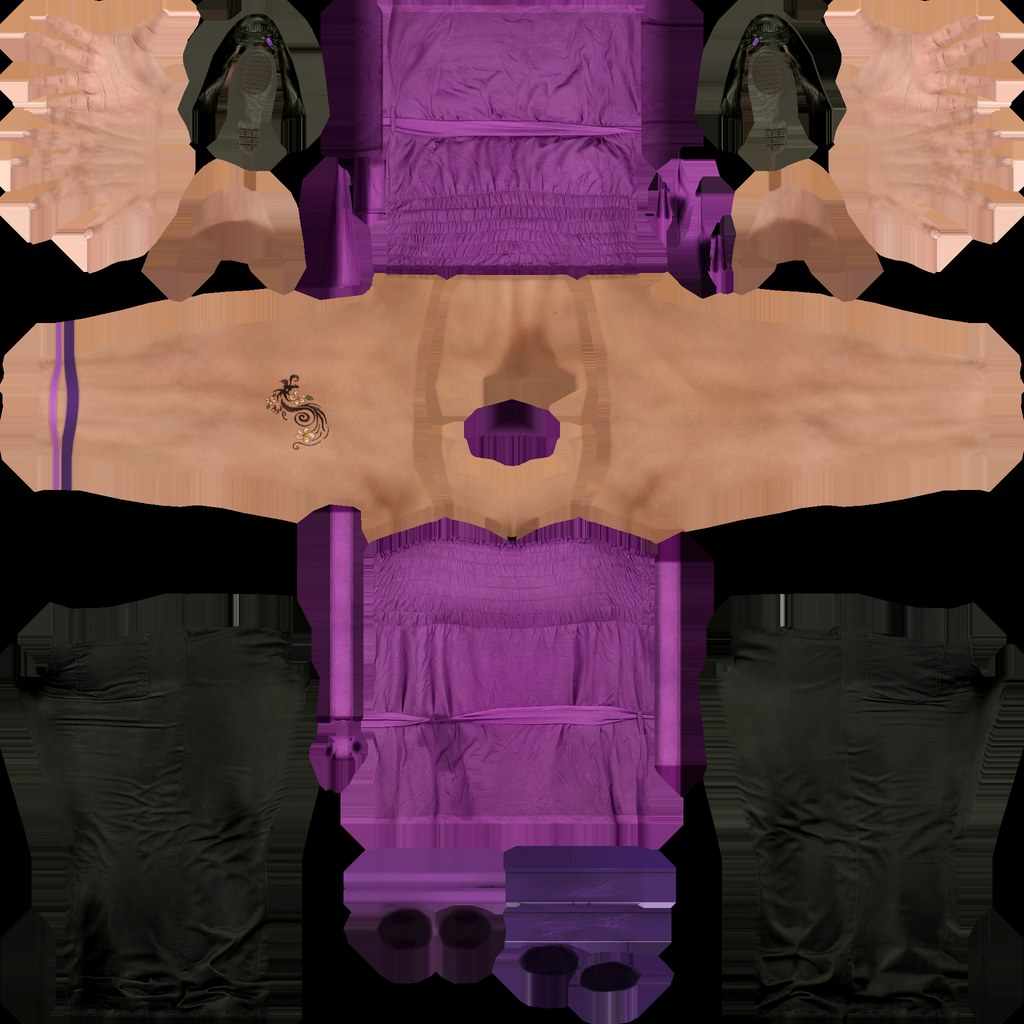
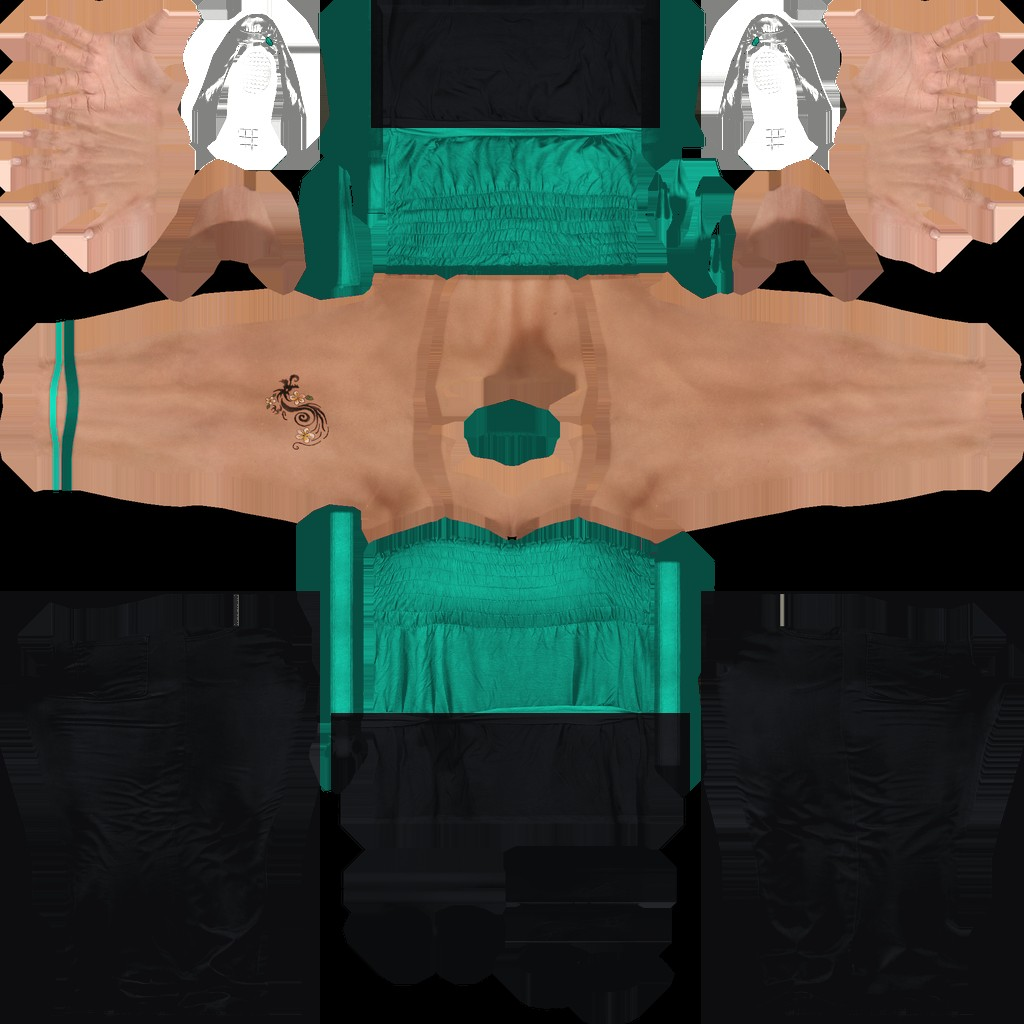
Corpus Coach : posture de pratiquante confirmée et tenue de sport
- squat, squat goblet, sumo, bulgare, soulevé de terre, roumain, good morning,
  swing et exercices buste penché : dos neutre et gainé, poitrine sortie,
  épaules en arrière, tête dans l'alignement
- coach : débardeur turquoise, bas noir, baskets blanches

Claude-Session: https://claude.ai/code/session_0183vZTDJYmU6FLCV4drYRkj

diff --git a/corpus/data.js b/corpus/data.js
@@ -7,7 +7,7 @@
   const CAM_FLOOR = { az: 90, el: 16, d: 3.9 };
   const CAM_FLOOR_FRONT = { az: 0, el: 16, d: 3.9 };
   const Q = { rp: 90, sh: [90, 6, 0], el: 0, hip: [90, 6, 0], kn: 90, an: 70, nk: -6 }; // quadrupédie
-  const HINGE = { rp: 48, sp: 4, hip: [56, 8, 6], kn: 20, nk: -18 };
+  const HINGE = { rp: 50, sp: -3, cp: -6, hip: [60, 8, 6], kn: 22, nk: -14 };
   const SUPINE_KNEES = { rp: -90, hip: [58, 10, 0], kn: 105 };
   const BEHIND_HEAD = { sh: [40, 125, 0], tw: 70, el: 150 };
 
@@ -16,8 +16,8 @@
     {
       id: 'squat', name: 'Squat', zones: ['quadriceps', 'fessiers', 'ischios'], place: ['maison', 'salle'], equip: [], level: 1,
       cycle: 3.2, count: [0.92], def: { sets: 3, reps: 15 }, aud: ['femme', 'homme', 'running'],
-      base: { hip: [0, 10, 18] },
-      keys: [{ t: 0 }, { t: 0.42, rp: 22, sp: 14, nk: -18, hip: [104, 12, 22], kn: 112, sh: [126, 6, 1], el: 2 }, { t: 0.55, rp: 22, sp: 14, nk: -18, hip: [104, 12, 22], kn: 112, sh: [126, 6, 1], el: 2 }],
+      base: { hip: [0, 10, 18], cp: -4 },
+      keys: [{ t: 0 }, { t: 0.42, rp: 38, sp: -4, cp: -6, nk: -12, hip: [128, 12, 22], kn: 114, sh: [124, 6, 1], el: 0 }, { t: 0.55, rp: 38, sp: -4, cp: -6, nk: -12, hip: [128, 12, 22], kn: 114, sh: [124, 6, 1], el: 0 }],
       plant: { legL: {}, legR: {} }, poles: { leg: [0.35, 0, 1] }, anchor: { m: ['heelL', 'heelR', 'toeL', 'toeR'] },
       steps: ['Pieds largeur d\'épaules, pointes légèrement ouvertes.', 'Descends en poussant les fesses vers l\'arrière, comme pour t\'asseoir.', 'Genoux dans l\'axe des pieds, poitrine haute.', 'Remonte en poussant dans les talons.'],
       cues: ['Pousse dans les talons', 'Poitrine haute', 'Genoux vers l\'extérieur', 'Serre les fessiers en haut'],
@@ -26,7 +26,7 @@
       id: 'squat-sumo', name: 'Squat sumo', zones: ['adducteurs', 'fessiers', 'quadriceps'], place: ['maison', 'salle'], equip: [], level: 1,
       cycle: 3.2, count: [0.92], def: { sets: 3, reps: 15 }, aud: ['femme', 'prenatal'],
       base: { hip: [0, 24, 40], sh: [35, 12, 35], el: 115 },
-      keys: [{ t: 0 }, { t: 0.42, rp: 10, sp: 6, nk: -8, hip: [84, 28, 44], kn: 96 }, { t: 0.55, rp: 10, sp: 6, nk: -8, hip: [84, 28, 44], kn: 96 }],
+      keys: [{ t: 0 }, { t: 0.42, rp: 16, sp: -4, cp: -6, nk: -8, hip: [92, 28, 44], kn: 98 }, { t: 0.55, rp: 16, sp: -4, cp: -6, nk: -8, hip: [92, 28, 44], kn: 98 }],
       plant: { legL: {}, legR: {} }, poles: { leg: [0.8, 0, 1] }, anchor: { m: ['heelL', 'heelR', 'toeL', 'toeR'] },
       steps: ['Pieds très écartés, pointes ouvertes à 45°.', 'Descends le bassin à la verticale, dos droit.', 'Les genoux suivent la direction des orteils.', 'Remonte en serrant l\'intérieur des cuisses et les fessiers.'],
       cues: ['Descends droit', 'Ouvre bien les genoux', 'Serre l\'intérieur des cuisses'],
@@ -35,7 +35,7 @@
       id: 'squat-goblet', name: 'Squat goblet', zones: ['quadriceps', 'fessiers', 'abdos'], place: ['maison', 'salle'], equip: ['kettlebell'], level: 2,
       cycle: 3.4, count: [0.92], def: { sets: 4, reps: 10 }, aud: ['femme', 'homme'],
       base: { hip: [0, 12, 20], sh: [24, 16, 30], el: 138 },
-      keys: [{ t: 0 }, { t: 0.42, rp: 16, sp: 10, nk: -12, hip: [100, 14, 26], kn: 115 }, { t: 0.55, rp: 16, sp: 10, nk: -12, hip: [100, 14, 26], kn: 115 }],
+      keys: [{ t: 0 }, { t: 0.42, rp: 24, sp: -4, cp: -6, nk: -10, hip: [112, 14, 26], kn: 118 }, { t: 0.55, rp: 24, sp: -4, cp: -6, nk: -10, hip: [112, 14, 26], kn: 118 }],
       plant: { legL: {}, legR: {} }, poles: { leg: [0.4, 0, 1] }, anchor: { m: ['heelL', 'heelR', 'toeL', 'toeR'] },
       props: ['kettlebell'],
       steps: ['Tiens le kettlebell contre la poitrine, coudes serrés.', 'Descends entre tes jambes en gardant le buste droit.', 'Coudes à l\'intérieur des genoux en bas.', 'Remonte en expirant.'],
@@ -45,7 +45,7 @@
       id: 'squat-saute', name: 'Squat sauté', zones: ['quadriceps', 'fessiers', 'cardio'], place: ['maison'], equip: [], level: 2,
       cycle: 1.9, count: [0.92], def: { sets: 3, reps: 12 }, aud: ['femme', 'homme', 'running'],
       base: { hip: [0, 10, 14] },
-      keys: [{ t: 0 }, { t: 0.35, rp: 22, sp: 14, nk: -12, hip: [92, 12, 18], kn: 100, sh: [-30, 8, 0], el: 10 },
+      keys: [{ t: 0 }, { t: 0.35, rp: 34, sp: -2, nk: -12, hip: [110, 12, 18], kn: 104, sh: [-30, 8, 0], el: 10 },
         { t: 0.6, jy: 0.24, sh: [160, 15, 0], el: 4, an: 30, kn: 2 }, { t: 0.8, rp: 6, hip: [30, 10, 14], kn: 30, sh: [40, 10, 0] }],
       anchor: { m: ['heelL', 'heelR', 'toeL', 'toeR'] },
       steps: ['Descends en squat, bras en arrière.', 'Explose vers le haut en lançant les bras.', 'Réception souple, genoux fléchis.'],
@@ -66,7 +66,7 @@
       id: 'fente-bulgare', sided: true, name: 'Squat bulgare', zones: ['fessiers', 'quadriceps'], place: ['maison', 'salle'], equip: ['chaise'], level: 3,
       cycle: 3.2, count: [0.92], def: { sets: 3, reps: 10 }, aud: ['femme', 'homme', 'running'], 
       base: { sh: [-10, 30, 0], tw: -30, el: 95, hipR: [-26, 4, 0], knR: 75, anR: 55 },
-      keys: [{ t: 0, hipL: [30, 6, 6], knL: 18 }, { t: 0.45, rp: 12, sp: 6, hipL: [94, 6, 6], knL: 98, hipR: [4, 4, 0], knR: 105 }, { t: 0.55, rp: 12, sp: 6, hipL: [94, 6, 6], knL: 98, hipR: [4, 4, 0], knR: 105 }],
+      keys: [{ t: 0, hipL: [30, 6, 6], knL: 18 }, { t: 0.45, rp: 16, sp: -2, cp: -4, hipL: [98, 6, 6], knL: 98, hipR: [4, 4, 0], knR: 105 }, { t: 0.55, rp: 16, sp: -2, cp: -4, hipL: [98, 6, 6], knL: 98, hipR: [4, 4, 0], knR: 105 }],
       plant: { legL: {}, legR: {} }, anchor: { m: ['heelL', 'toeL'] }, flatR: false,
       props: [{ type: 'chair', at: 'toeR' }],
       steps: ['Pose le dessus du pied arrière sur une chaise.', 'Descends à la verticale sur la jambe avant.', 'Penche légèrement le buste pour cibler les fessiers.', 'Remonte en poussant dans le talon avant.'],
@@ -207,7 +207,7 @@
       id: 'souleve-terre', name: 'Soulevé de terre', zones: ['dos', 'lombaires', 'fessiers', 'ischios'], place: ['salle'], equip: ['barre'], level: 3,
       cycle: 3.6, count: [0.92], def: { sets: 4, reps: 6 }, aud: ['homme', 'femme'],
       base: { sh: [0, 10, 0], el: 0, hip: [0, 8, 6] },
-      keys: [{ t: 0 }, { t: 0.42, rp: 52, sp: 6, hip: [96, 10, 8], kn: 72, sh: [58, 10, 0], nk: -22 }, { t: 0.55, rp: 52, sp: 6, hip: [96, 10, 8], kn: 72, sh: [58, 10, 0], nk: -22 }],
+      keys: [{ t: 0 }, { t: 0.42, rp: 56, sp: -3, cp: -6, hip: [100, 10, 8], kn: 72, sh: [53, 10, 0], nk: -14 }, { t: 0.55, rp: 56, sp: -3, cp: -6, hip: [100, 10, 8], kn: 72, sh: [53, 10, 0], nk: -14 }],
       plant: { legL: {}, legR: {} }, anchor: { m: ['heelL', 'heelR', 'toeL', 'toeR'] }, cam: { az: 75, el: 6, d: 4.4 },
       props: ['barbell'],
       steps: ['Barre au-dessus du milieu des pieds.', 'Dos plat, poitrine sortie, épaules au-dessus de la barre.', 'Pousse le sol avec les jambes, la barre frôle les tibias.', 'Verrouille en haut en serrant les fessiers.'],
@@ -217,7 +217,7 @@
       id: 'sdt-roumain', name: 'Soulevé de terre roumain', zones: ['ischios', 'fessiers', 'lombaires'], place: ['maison', 'salle'], equip: ['haltères'], level: 2,
       cycle: 3.4, count: [0.92], def: { sets: 3, reps: 12 }, aud: ['femme', 'homme', 'running'],
       base: { sh: [0, 8, 0], el: 2 },
-      keys: [{ t: 0 }, { t: 0.42, rp: 70, sp: 4, hip: [78, 8, 4], kn: 16, sh: [74, 8, 0], nk: -25 }, { t: 0.55, rp: 70, sp: 4, hip: [78, 8, 4], kn: 16, sh: [74, 8, 0], nk: -25 }],
+      keys: [{ t: 0 }, { t: 0.42, rp: 72, sp: -3, cp: -6, hip: [82, 8, 4], kn: 18, sh: [69, 8, 0], nk: -16 }, { t: 0.55, rp: 72, sp: -3, cp: -6, hip: [82, 8, 4], kn: 18, sh: [69, 8, 0], nk: -16 }],
       plant: { legL: {}, legR: {} }, anchor: { m: ['heelL', 'heelR', 'toeL', 'toeR'] }, cam: { az: 80, el: 6, d: 4.3 },
       props: ['dumbbells'],
       steps: ['Genoux légèrement fléchis et fixes.', 'Pousse les fesses loin en arrière, dos plat.', 'Descends jusqu\'à sentir l\'étirement des ischios.', 'Remonte en serrant les fessiers.'],
@@ -227,7 +227,7 @@
       id: 'good-morning', name: 'Good morning', zones: ['lombaires', 'ischios', 'fessiers'], place: ['maison'], equip: [], level: 1,
       cycle: 3.4, count: [0.92], def: { sets: 3, reps: 12 }, aud: ['homme', 'femme', 'running'],
       base: Object.assign({}, BEHIND_HEAD),
-      keys: [{ t: 0 }, { t: 0.42, rp: 62, hip: [70, 8, 4], kn: 14, nk: -22 }, { t: 0.55, rp: 62, hip: [70, 8, 4], kn: 14, nk: -22 }],
+      keys: [{ t: 0 }, { t: 0.42, rp: 62, sp: -3, hip: [72, 8, 4], kn: 16, nk: -14 }, { t: 0.55, rp: 62, sp: -3, hip: [72, 8, 4], kn: 16, nk: -14 }],
       plant: { legL: {}, legR: {} }, anchor: { m: ['heelL', 'heelR', 'toeL', 'toeR'] }, cam: { az: 80, el: 6, d: 4.3 },
       steps: ['Mains derrière la tête, coudes ouverts.', 'Bascule le buste en poussant les fesses en arrière.', 'Dos plat du début à la fin.', 'Remonte en serrant les fessiers.'],
       cues: ['Dos plat', 'Fesses en arrière'],
@@ -236,7 +236,7 @@
       id: 'kb-swing', name: 'Kettlebell swing', zones: ['fessiers', 'ischios', 'cardio'], place: ['maison', 'salle'], equip: ['kettlebell'], level: 2,
       cycle: 1.8, count: [0.95], def: { sets: 4, reps: 15 }, aud: ['homme', 'femme'],
       base: { hip: [0, 14, 12], el: 0 },
-      keys: [{ t: 0, sh: [88, 6, 10] }, { t: 0.5, rp: 55, sp: 4, hip: [80, 14, 12], kn: 34, sh: [20, 6, 10], nk: -15 }],
+      keys: [{ t: 0, sh: [88, 6, 10] }, { t: 0.5, rp: 56, sp: -3, cp: -4, hip: [84, 14, 12], kn: 34, sh: [16, 6, 10], nk: -12 }],
       plant: { legL: {}, legR: {} }, anchor: { m: ['heelL', 'heelR', 'toeL', 'toeR'] }, cam: { az: 75, el: 6, d: 4.3 },
       props: ['kettlebell'],
       steps: ['Pieds un peu plus larges que les hanches.', 'Bascule les hanches, le kettlebell passe entre les jambes.', 'Projette les hanches vers l\'avant : ce sont elles qui lancent la charge.', 'Les bras restent détendus.'],
@@ -348,7 +348,7 @@
       id: 'oiseau', name: 'Oiseau (élévations buste penché)', zones: ['epaules', 'dos', 'trapezes'], place: ['maison', 'salle'], equip: ['haltères'], level: 2,
       cycle: 2.8, count: [0.92], def: { sets: 3, reps: 12 }, aud: ['homme', 'femme'],
       base: HINGE,
-      keys: [{ t: 0, sh: [48, 6, 0], el: 12 }, { t: 0.42, sh: [48, 80, 0], el: 15 }, { t: 0.52, sh: [48, 80, 0], el: 15 }],
+      keys: [{ t: 0, sh: [47, 6, 0], el: 12 }, { t: 0.42, sh: [47, 80, 0], el: 15, cp: -12 }, { t: 0.52, sh: [47, 80, 0], el: 15, cp: -12 }],
       plant: { legL: {}, legR: {} }, anchor: { m: ['heelL', 'heelR', 'toeL', 'toeR'] }, cam: { az: 35, el: 14, d: 4.2 },
       props: ['dumbbells'],
       steps: ['Buste penché à 45°, dos plat.', 'Ouvre les bras sur les côtés.', 'Serre les omoplates en haut.', 'Redescends lentement.'],
@@ -470,7 +470,7 @@
       id: 'rowing-haltere', name: 'Rowing haltères', zones: ['dos', 'biceps', 'trapezes'], place: ['maison', 'salle'], equip: ['haltères'], level: 2,
       cycle: 2.8, count: [0.92], def: { sets: 4, reps: 10 }, aud: ['homme', 'femme'],
       base: HINGE,
-      keys: [{ t: 0, sh: [48, 8, 0], el: 4 }, { t: 0.42, sh: [-12, 14, 0], el: 96 }, { t: 0.52, sh: [-12, 14, 0], el: 96 }],
+      keys: [{ t: 0, sh: [47, 8, 0], el: 4 }, { t: 0.42, sh: [-14, 14, 0], el: 98, cp: -12 }, { t: 0.52, sh: [-14, 14, 0], el: 98, cp: -12 }],
       plant: { legL: {}, legR: {} }, anchor: { m: ['heelL', 'heelR', 'toeL', 'toeR'] }, cam: { az: 80, el: 8, d: 4.2 },
       props: ['dumbbells'],
       steps: ['Buste penché à 45°, dos plat.', 'Tire les haltères vers les hanches.', 'Serre les omoplates.', 'Redescends bras tendus.'],
